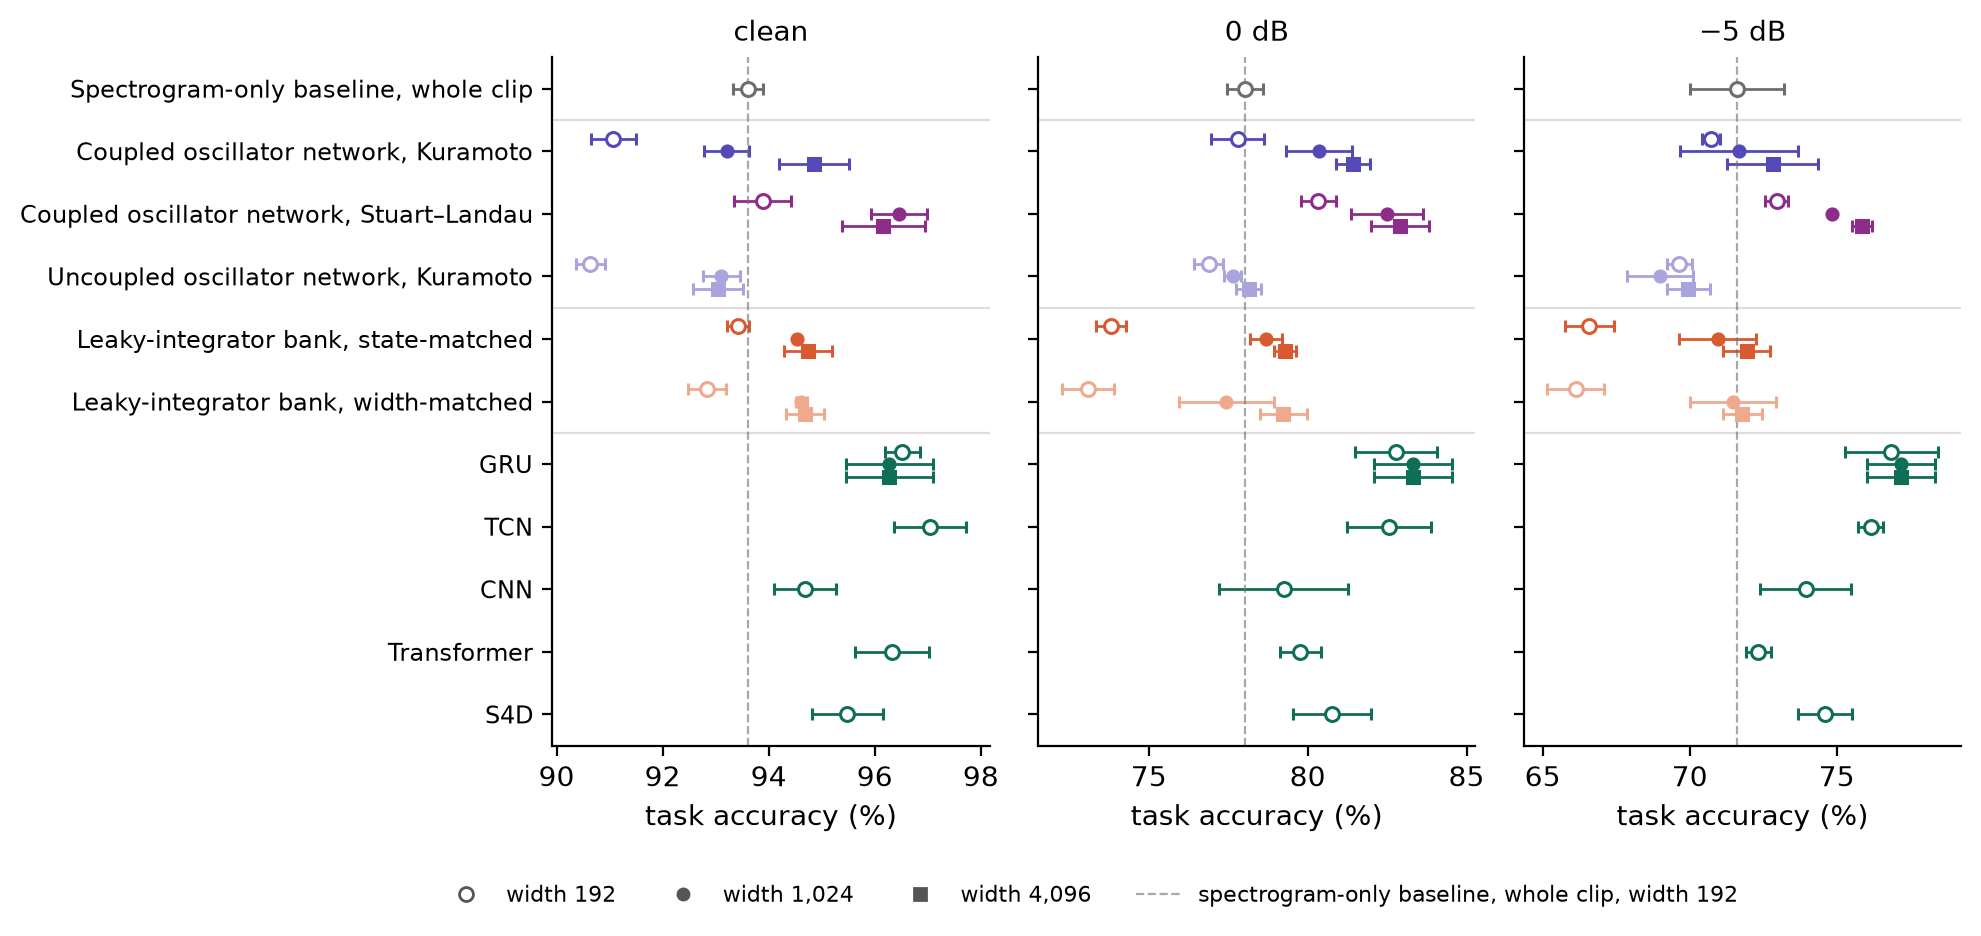
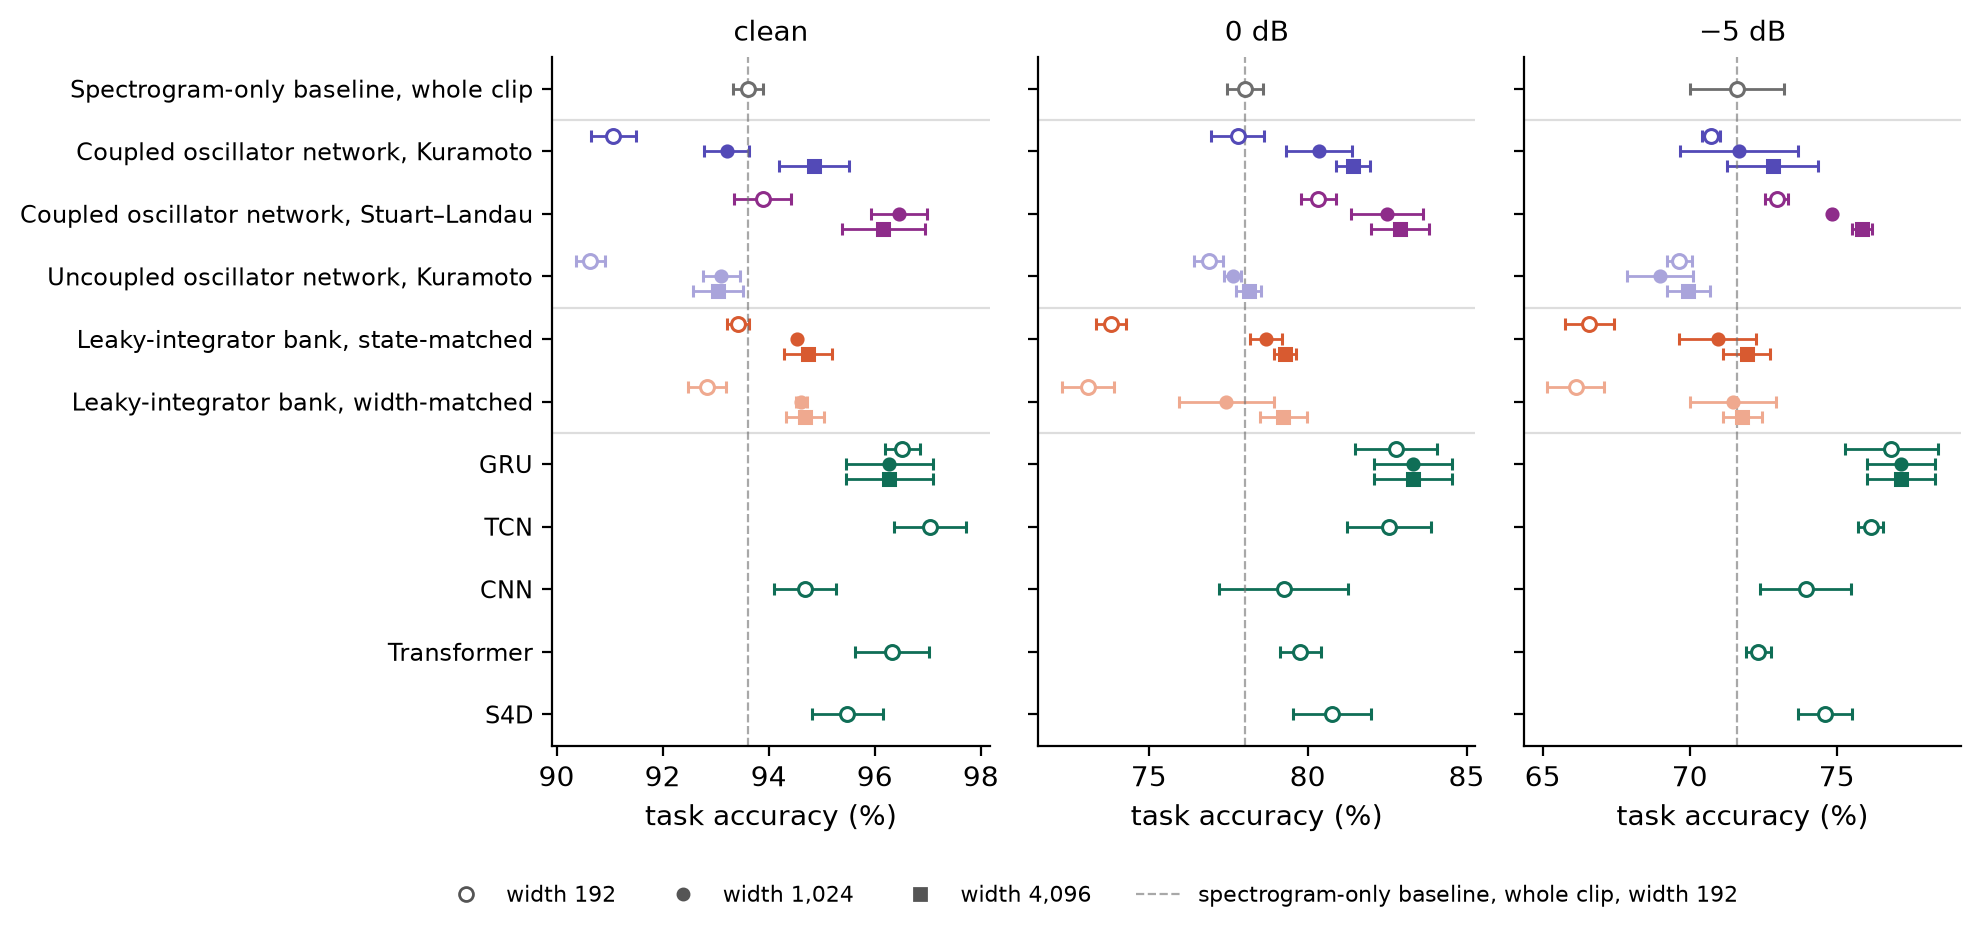
space the width figure's markers a little further apart

diff --git a/papers/02-untrained-reservoirs/src/harness/experiment/figures.py b/papers/02-untrained-reservoirs/src/harness/experiment/figures.py
@@ -353,7 +353,7 @@ def arms_figure(task: str, stem: str) -> None:
 
 
 #: the readout widths the width figure draws, each with its marker: (width, shape, face, size, offset within the row)
-WIDTHS = ((192, "o", "white", 5, -0.2), (1024, "o", None, 4, 0.0), (4096, "s", None, 4.5, 0.2))
+WIDTHS = ((192, "o", "white", 5, -0.24), (1024, "o", None, 4, 0.0), (4096, "s", None, 4.5, 0.24))
 
 
 def width_figure(stem: str = "c9-readout-width") -> None:
